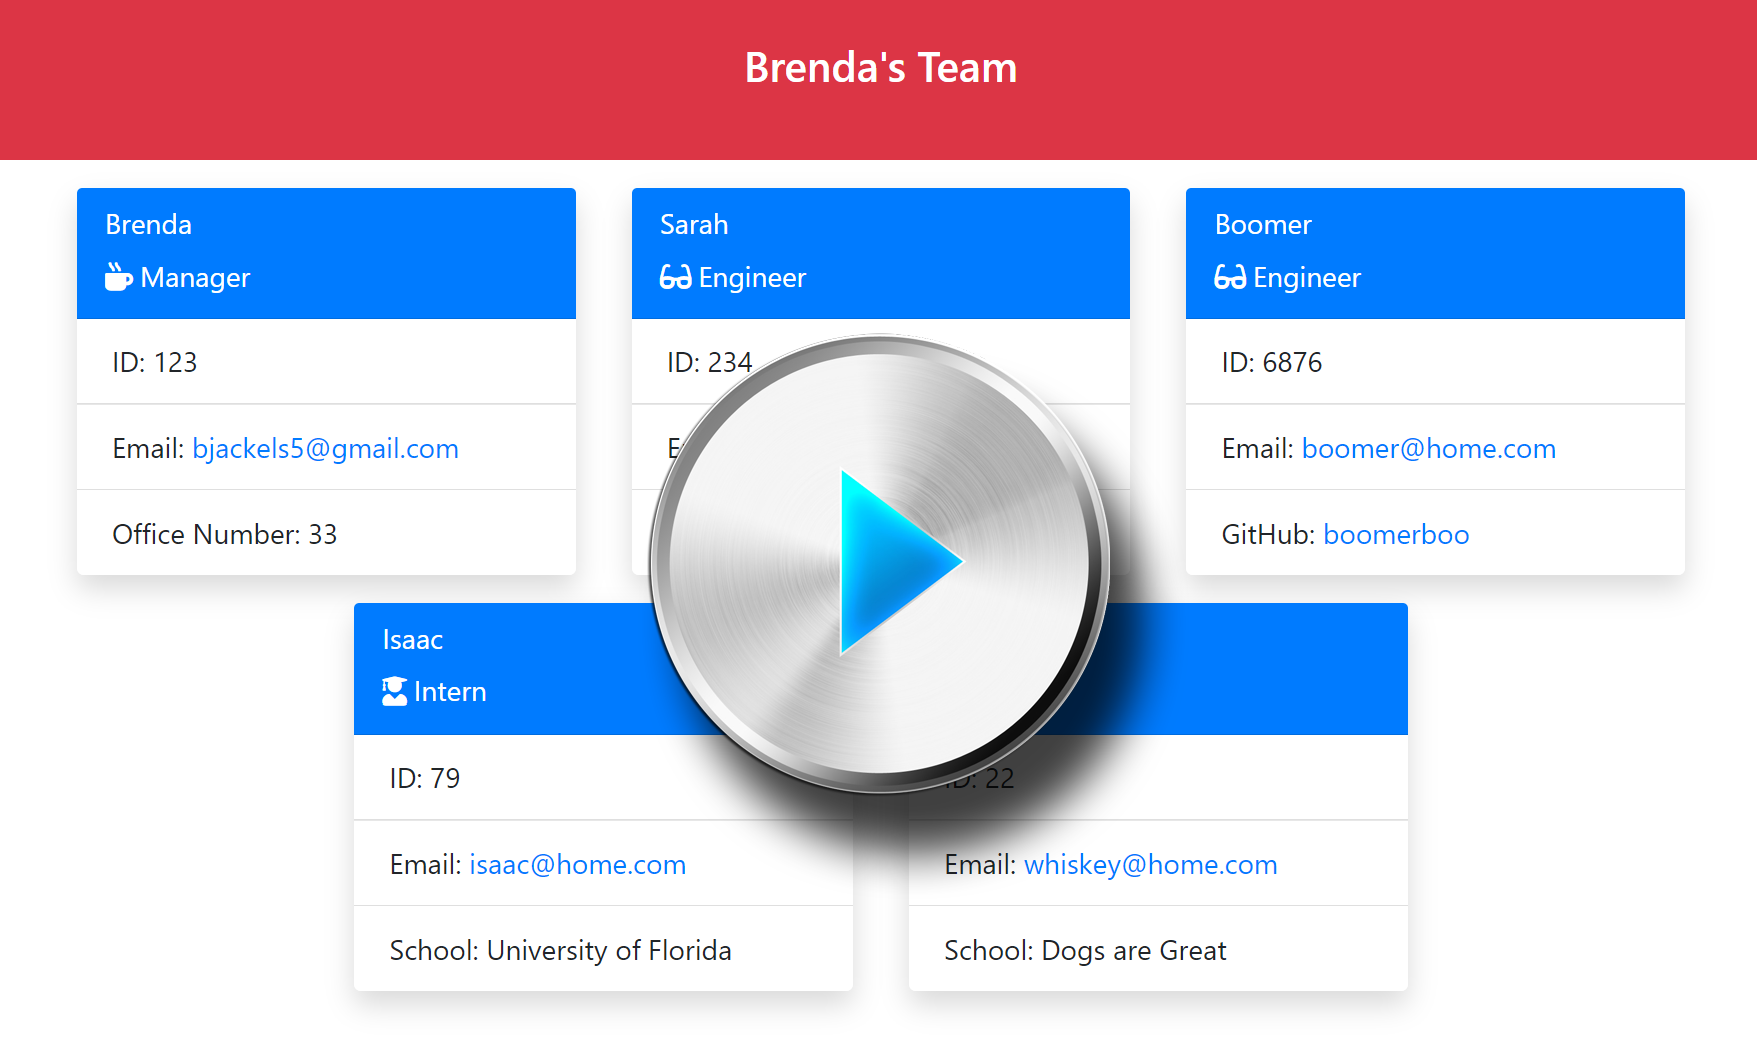
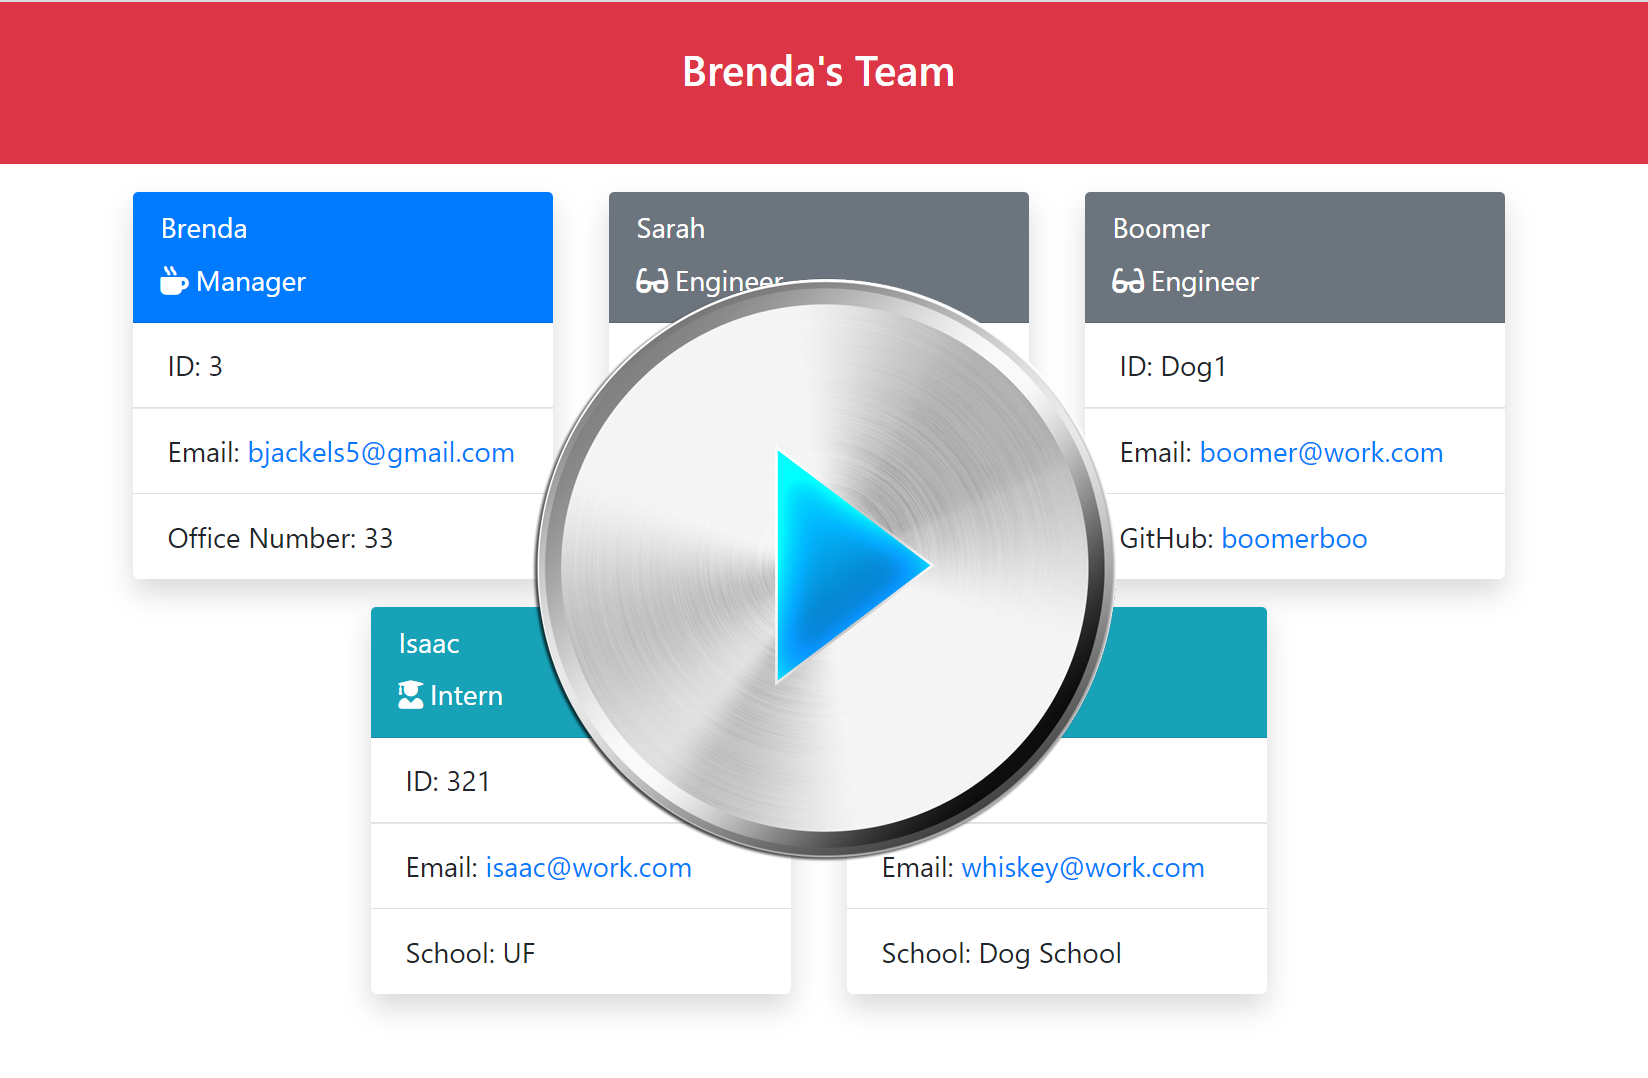
updated link to video in README file, updated the app screenshots

diff --git a/dist/index.html b/dist/index.html
@@ -50,7 +50,7 @@
                 <div class="list-group list-group-flush">
                     <p class="list-group-item">ID: 123</p>
                     <p class="list-group-item">Email: <a href="mailto:sarah@work.com">sarah@work.com</a></p>
-                    <p class="list-group-item">GitHub: <a href="https://github.com/sarahhjean" target="_blank">sarahhjean</a></p>
+                    <p class="list-group-item">GitHub: <a href="https://github.com/Sarahhjean" target="_blank">Sarahhjean</a></p>
                 </div>
             </div>
             
@@ -90,7 +90,7 @@
                 <div class="list-group list-group-flush">
                     <p class="list-group-item">ID: Dog2</p>
                     <p class="list-group-item">Email: <a href="mailto:whiskey@work.com">whiskey@work.com</a></p>
-                    <p class="list-group-item">School: Obedience School</p>
+                    <p class="list-group-item">School: Dog School</p>
                 </div>
             </div>
             

diff --git a/README.md b/README.md
@@ -120,7 +120,7 @@ Thank you Kim Collazo for the idea of using different colors for the different e
 
 <a id="projectDemo"></a>
 
-<a href="https://youtu.be/ZAlR4FociBc">
+<a href="https://youtu.be/D_Ti1YEc5i4">
    <img src="./media/team-webpage-generator-demo.png">
 </a>
 
